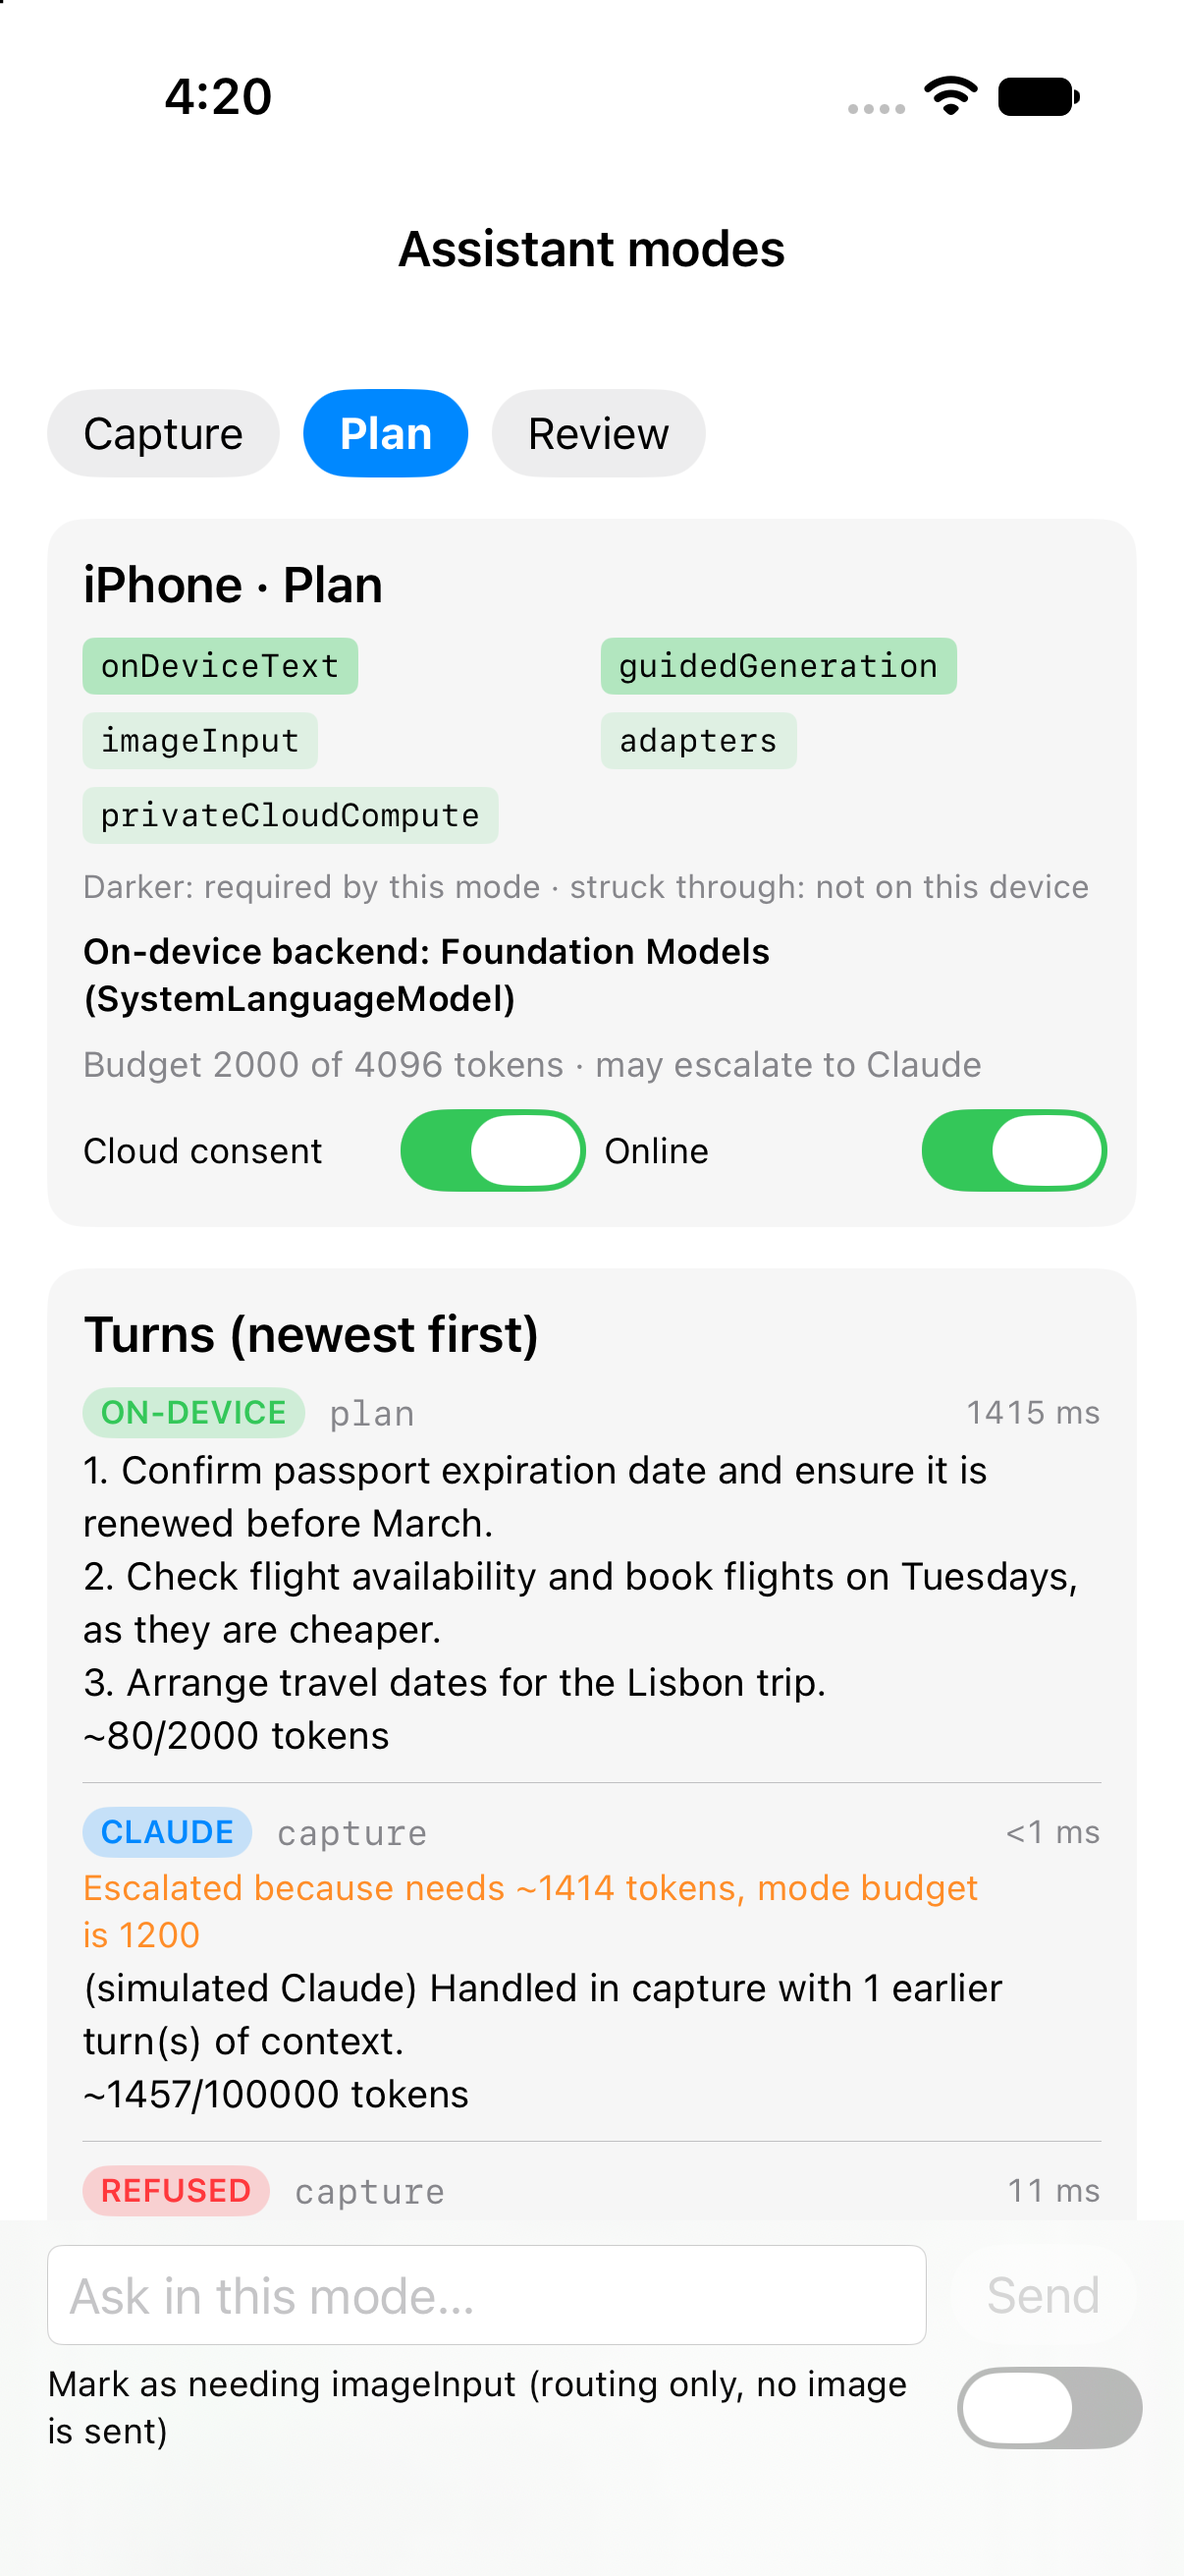
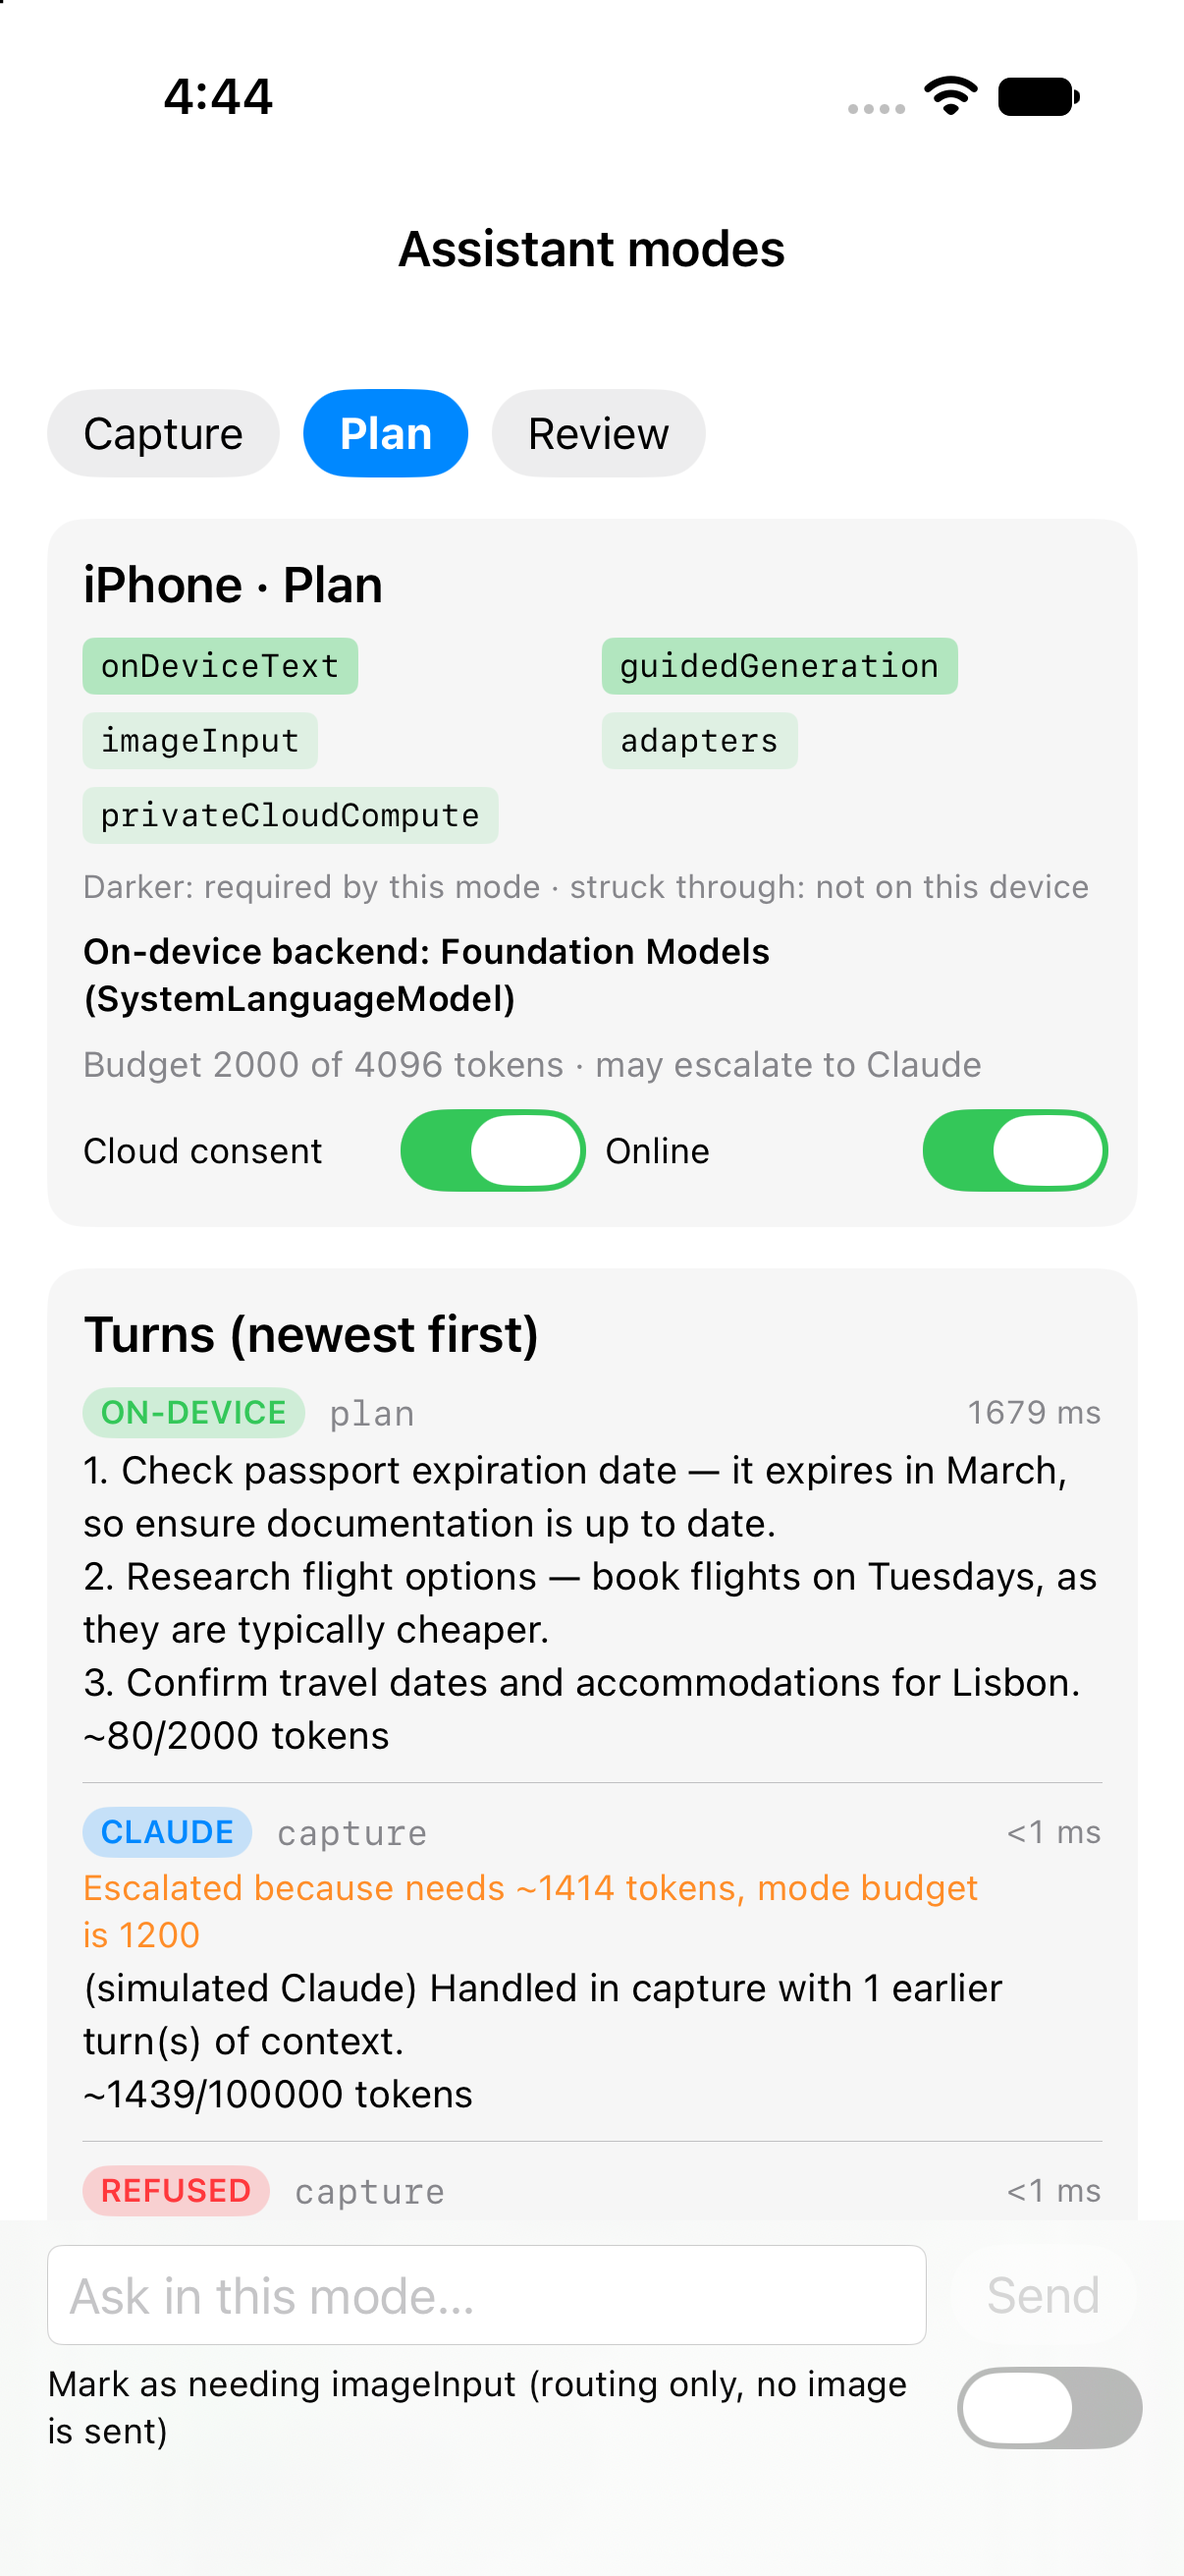
1.0.2: inspector shows the active mode's conversation
Records redact private answers, so the console now shows the active mode's
transcript in its own card; the redaction applies only to the turn log.

Claude-Session: https://claude.ai/code/session_01HmGcZDyeGSkZsTMtjwETS8

diff --git a/Sources/AssistantModesUI/AssistantConsoleView.swift b/Sources/AssistantModesUI/AssistantConsoleView.swift
@@ -18,6 +18,7 @@ public struct AssistantConsoleView: View {
                         modeBar(snapshot)
                         capabilityCard(snapshot)
                         turnLog(snapshot)
+                        conversationCard(snapshot)
                         stateCard(snapshot)
                         if let report = model.lastTransition { transitionCard(report) }
                         if let error = model.lastError {
@@ -132,8 +133,24 @@ public struct AssistantConsoleView: View {
         }
     }
 
+    /// The active mode's transcript, in full. The turn log above shows routing and, for private
+    /// modes, a redaction; the answer itself lives here, and is cleared when the mode is left.
+    private func conversationCard(_ snapshot: EngineSnapshot) -> some View {
+        card(title: "Conversation in this mode") {
+            if snapshot.transcript.isEmpty {
+                Text("Nothing yet. A mode switch starts a new conversation.").font(.caption).foregroundStyle(.secondary)
+            }
+            ForEach(Array(snapshot.transcript.suffix(3).enumerated()), id: \.offset) { _, turn in
+                VStack(alignment: .leading, spacing: 2) {
+                    Text(turn.user).font(.caption.bold()).lineLimit(2)
+                    Text(turn.assistant).font(.footnote)
+                }
+            }
+        }
+    }
+
     private func stateCard(_ snapshot: EngineSnapshot) -> some View {
-        card(title: "Session state (\(snapshot.transcript.count) turn(s) in this mode)") {
+        card(title: "Session state") {
             if snapshot.state.values.isEmpty {
                 Text("Empty").font(.caption).foregroundStyle(.secondary)
             }

diff --git a/README.md b/README.md
@@ -47,9 +47,9 @@ This package answers each of these in code, with a test that fails if the answer
 | `RoutePolicy`, `RouteDecision` | A pure decision table: `onDevice(plan)`, `escalate(because:)` or `refuse(because:blockedBy:)`. A request declares the capabilities it needs (for example `.imageInput`); carrying the image itself is the app's job. |
 | `AssistantEngine` (actor) | Owns the active mode, state, transcript and records. Every way a turn can end is a `TurnOutcome`. Records outlive the transcript, so they keep counts and token estimates but no turn text, and answers given in a private mode are redacted in them. |
 | `EvalRunner`, `EvalCase` | Scripted transition and routing evals that run against any backend. The tests run a 19-step house eval against a scripted model; the demo's `-scenario eval` runs a 15-step variant, on its own graph, against Apple's model. |
-| `StabilityProbe` | Sends one request N times and reports agreement, to measure how much the real model's output drifts. In the run shown in the demo repo, against Apple's model: 70% agreement over 10 runs (2 distinct answers). |
+| `StabilityProbe` | Sends one request N times and reports agreement, to measure how much the real model's output drifts. The demo repo shows a real run against Apple's model. |
 | `SystemModelBackend` | `OnDeviceModel` backed by Foundation Models' `SystemLanguageModel` (compiled where the SDK has it, iOS/macOS 26+). |
-| `AssistantModesUI` | `AssistantConsoleView`, an inspector that shows each turn's route and the reason for it. |
+| `AssistantModesUI` | `AssistantConsoleView`, an inspector that shows each turn's route and the reason for it, the active mode's conversation, and the session state. |
 
 ## Design decisions and trade-offs
 
